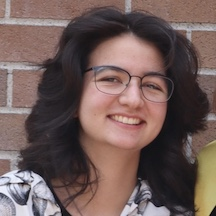
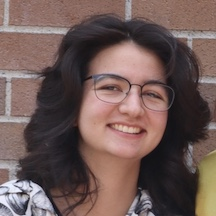
rebuilt site

diff --git a/public/prospectives/index.html b/public/prospectives/index.html
@@ -6,7 +6,7 @@
 <meta name="viewport" content="width=device-width, initial-scale=1">
 <meta name="author" content="Mark Scheuerell">
 <meta name="description" content="Applied Ecology Lab">
-<meta name="generator" content="Hugo 0.145.0">
+<meta name="generator" content="Hugo 0.101.0" />
 <title>Scheuerell Lab</title>
 
 <!-- Favicon -->
@@ -91,9 +91,7 @@
                     <h2 class="section-heading text-center">PROSPECTIVE STUDENTS</h2>
                 
                 <hr>
-<br><p><b>NOTE</b>: Mark does not plan on accepting any new students to begin before the 2026-2027 academic year.</p><br>
-
-<p>Thanks for your interest in the Applied Ecology Lab. This information is intended to give you an idea of the qualities I look for in graduate students, and my general expectations for people in my lab.</p>
+<br><p style="text-align: center;"><b><i>NOTE: I am not accepting new graduate students into my lab.<br><br>The following information is provided for reference only.</i></b></p><br>
 
 <h3>Qualities & expectations</h3>
 
@@ -154,7 +152,7 @@
   <div class="container">
     <div class="row">
       <div class="col-md-4">
-        <span class="copyright">© 2024 Mark Scheuerell</span>
+        <span class="copyright">© 2026 Mark Scheuerell</span>
       </div>
       <div class="col-md-4">
         <ul class="list-inline">

diff --git a/public/index.html b/public/index.html
@@ -6,7 +6,7 @@
 <meta name="viewport" content="width=device-width, initial-scale=1">
 <meta name="author" content="Mark Scheuerell">
 <meta name="description" content="Applied Ecology Lab">
-<meta name="generator" content="Hugo 0.145.0">
+<meta name="generator" content="Hugo 0.101.0" />
 <title>Scheuerell Lab</title>
 
 <!-- Favicon -->
@@ -1039,7 +1039,7 @@
   <div class="container">
     <div class="row">
       <div class="col-md-4">
-        <span class="copyright">© 2024 Mark Scheuerell</span>
+        <span class="copyright">© 2026 Mark Scheuerell</span>
       </div>
       <div class="col-md-4">
         <ul class="list-inline">
